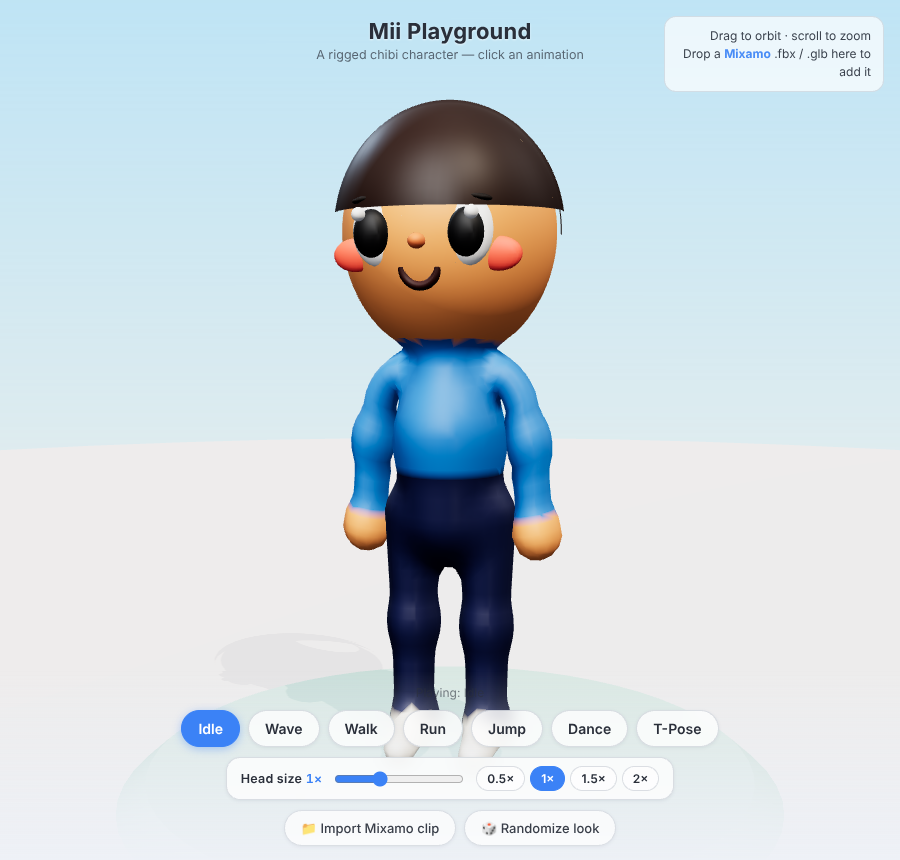
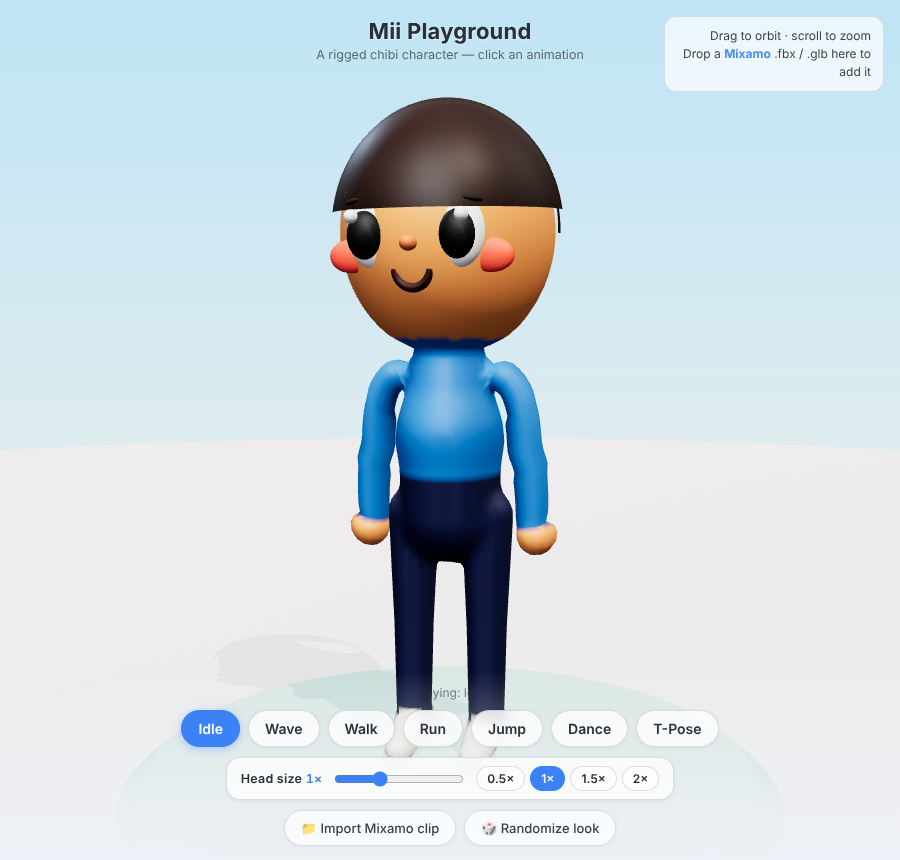
Fix puffy/balloony joints: union limbs, small fillets only at the body
The global smooth-min added material at every union, bulging elbows, knees,
wrists and shoulders (muscular/balloon look). Now:
- Join each limb's own cones with a plain union (no bulge along the limb).
- Apply a small smooth fillet (KJ) only where a limb meets the body, and a
  gentle one (KT) within the torso/neck/head where roundness is wanted.
- Slim the limb radii and neaten the ball hands; finer voxel size.

Claude-Session: https://claude.ai/code/session_01L2wyrWbScpqvDqddVE6ou5

diff --git a/src/mii.js b/src/mii.js
@@ -58,8 +58,9 @@ export const BONE = {
 };
 
 const HEAD_BASE_R = 0.26, HEAD_YSCALE = 1.12, HEAD_ANCHOR_Y = 1.02, WAIST_Y = 0.73;
-const CELL = 0.024;        // marching-cubes voxel size
-const BLEND = 0.05;        // smooth-min radius (joint fillet)
+const CELL = 0.021;        // marching-cubes voxel size
+const KT = 0.03;           // fillet within torso (neck/waist/head) — smooth
+const KJ = 0.02;           // fillet where a LIMB meets the body — small, to avoid puffy joints
 
 // ---- signed-distance primitives (scalar math, negative = inside) ----------
 function sdRoundCone(px, py, pz, ax, ay, az, bx, by, bz, r1, r2) {
@@ -125,42 +126,57 @@ export function buildMii(options = {}) {
         cSkin = colL(colors.skin), cShoes = colL(colors.shoes);
 
   // Each segment: SDF + a core (for skin weighting) + bone + base color + region.
+  // Limbs are grouped so their own cones are joined with a plain union (no bulge
+  // along the limb); only the limb->body junction gets a small smooth fillet.
   const segs = [];
   const cone = (ax, ay, az, bx, by, bz, r1, r2, bone, color, region) =>
     segs.push({ kind: 'cone', ax, ay, az, bx, by, bz, r1, r2, reff: Math.max(r1, r2),
-                bi: boneIdx(bone), color, region });
+                bi: boneIdx(bone), color, region }) - 1;
   const ballSeg = (cx, cy, cz, r, bone, color, region) =>
     segs.push({ kind: 'ball', ax: cx, ay: cy, az: cz, bx: cx, by: cy, bz: cz, r, reff: r,
-                bi: boneIdx(bone), color, region });
+                bi: boneIdx(bone), color, region }) - 1;
 
   // torso (tapered tube), split across spine bones; colored by waist height
-  cone(0, 0.62, 0, 0, 0.82, 0, 0.125, 0.132, 'mixamorigSpine', cShirt, 'torso');
-  cone(0, 0.82, 0, 0, 0.99, 0, 0.132, 0.088, 'mixamorigSpine1', cShirt, 'torso');
-  cone(0, 0.96, 0, 0, 1.055, 0, 0.052, 0.048, 'mixamorigNeck', cSkin, 'skin');
-  segs.push({ kind: 'ellipsoid', cx: C.x, cy: C.y, cz: C.z, rx: headRadii[0], ry: headRadii[1], rz: headRadii[2],
-              ax: C.x, ay: C.y, az: C.z, bx: C.x, by: C.y, bz: C.z, reff: Rh, bi: boneIdx('mixamorigHead'), color: cSkin, region: 'skin' });
+  const gTorso = [
+    cone(0, 0.62, 0, 0, 0.82, 0, 0.122, 0.128, 'mixamorigSpine', cShirt, 'torso'),
+    cone(0, 0.82, 0, 0, 0.99, 0, 0.128, 0.085, 'mixamorigSpine1', cShirt, 'torso'),
+    cone(0, 0.96, 0, 0, 1.055, 0, 0.05, 0.046, 'mixamorigNeck', cSkin, 'skin'),
+    segs.push({ kind: 'ellipsoid', cx: C.x, cy: C.y, cz: C.z, rx: headRadii[0], ry: headRadii[1], rz: headRadii[2],
+      ax: C.x, ay: C.y, az: C.z, bx: C.x, by: C.y, bz: C.z, reff: Rh, bi: boneIdx('mixamorigHead'), color: cSkin, region: 'skin' }) - 1,
+  ];
+  const limbs = [];
   for (const [g, A, F, Hd, U, L, Ft] of [
     [1, 'mixamorigLeftArm', 'mixamorigLeftForeArm', 'mixamorigLeftHand', 'mixamorigLeftUpLeg', 'mixamorigLeftLeg', 'mixamorigLeftFoot'],
     [-1, 'mixamorigRightArm', 'mixamorigRightForeArm', 'mixamorigRightHand', 'mixamorigRightUpLeg', 'mixamorigRightLeg', 'mixamorigRightFoot'],
   ]) {
-    cone(g * 0.14, 0.96, 0, g * 0.33, 0.96, 0, 0.055, 0.047, A, cShirt, 'skinClothes'); // sleeve
-    cone(g * 0.33, 0.96, 0, g * 0.50, 0.96, 0, 0.047, 0.044, F, cShirt, 'skinClothes');
-    ballSeg(g * 0.555, 0.96, 0, 0.06, Hd, cSkin, 'skin');                                // ball hand
-    cone(g * 0.095, 0.62, 0, g * 0.095, 0.34, 0, 0.072, 0.056, U, cPants, 'legs');       // thigh
-    cone(g * 0.095, 0.34, 0, g * 0.095, 0.10, 0, 0.056, 0.05, L, cPants, 'legs');        // shin
-    cone(g * 0.095, 0.085, -0.02, g * 0.095, 0.05, 0.12, 0.052, 0.04, Ft, cShoes, 'shoes'); // foot
+    limbs.push([ // arm: upper, fore, hand — matched radii so it's a smooth tube
+      cone(g * 0.14, 0.96, 0, g * 0.33, 0.96, 0, 0.05, 0.044, A, cShirt, 'skinClothes'),
+      cone(g * 0.33, 0.96, 0, g * 0.50, 0.96, 0, 0.044, 0.04, F, cShirt, 'skinClothes'),
+      ballSeg(g * 0.555, 0.96, 0, 0.051, Hd, cSkin, 'skin'),
+    ]);
+    limbs.push([ // leg: thigh, shin, foot
+      cone(g * 0.095, 0.62, 0, g * 0.095, 0.34, 0, 0.064, 0.05, U, cPants, 'legs'),
+      cone(g * 0.095, 0.34, 0, g * 0.095, 0.10, 0, 0.05, 0.044, L, cPants, 'legs'),
+      cone(g * 0.095, 0.085, -0.02, g * 0.095, 0.05, 0.12, 0.05, 0.038, Ft, cShoes, 'shoes'),
+    ]);
   }
 
+  const sdfOf = (s, x, y, z) => s.kind === 'cone'
+    ? sdRoundCone(x, y, z, s.ax, s.ay, s.az, s.bx, s.by, s.bz, s.r1, s.r2)
+    : s.kind === 'ellipsoid'
+      ? sdEllipsoid(x, y, z, s.cx, s.cy, s.cz, s.rx, s.ry, s.rz)
+      : Math.hypot(x - s.ax, y - s.ay, z - s.az) - s.r;
+
   function field(x, y, z) {
+    // torso + neck + head: smoothly blended (these joints SHOULD be round)
     let f = 1e9;
-    for (let i = 0; i < segs.length; i++) {
-      const s = segs[i];
-      const d = s.kind === 'cone'
-        ? sdRoundCone(x, y, z, s.ax, s.ay, s.az, s.bx, s.by, s.bz, s.r1, s.r2)
-        : s.kind === 'ellipsoid'
-          ? sdEllipsoid(x, y, z, s.cx, s.cy, s.cz, s.rx, s.ry, s.rz)
-          : Math.hypot(x - s.ax, y - s.ay, z - s.az) - s.r;
-      f = smin(f, d, BLEND);
+    for (const i of gTorso) f = smin(f, sdfOf(segs[i], x, y, z), KT);
+    // each limb: plain union of its own cones (no bulge along the limb), then a
+    // small smooth fillet only where it meets the body.
+    for (const limb of limbs) {
+      let d = 1e9;
+      for (const i of limb) { const v = sdfOf(segs[i], x, y, z); if (v < d) d = v; }
+      f = smin(f, d, KJ);
     }
     return f;
   }

diff --git a/README.md b/README.md
@@ -38,9 +38,10 @@ The body is **one cohesive, smoothly-skinned mesh**, not a pile of overlapping
 primitives:
 
 * **Implicit surface.** The body is defined as a signed-distance *field* — a
-  smooth-min blend of tapered capsules (round cones) plus an ellipsoid head.
-  Overlapping parts fuse into one surface with filleted joints (the soft,
-  seamless "toy" look).
+  blend of tapered capsules (round cones) plus an ellipsoid head. Each limb's
+  own cones are joined with a plain union (so elbows/knees stay slim tubes, no
+  bulge), and only the torso joints and limb-to-body junctions get a small
+  smooth fillet — seamless but not puffy.
 * **Marching cubes.** That field is polygonized into a single watertight mesh
   (`src/mii.js` runs a compact marching-cubes pass, reusing the standard
   `edgeTable`/`triTable` from three's `MarchingCubes` addon). Vertex normals
